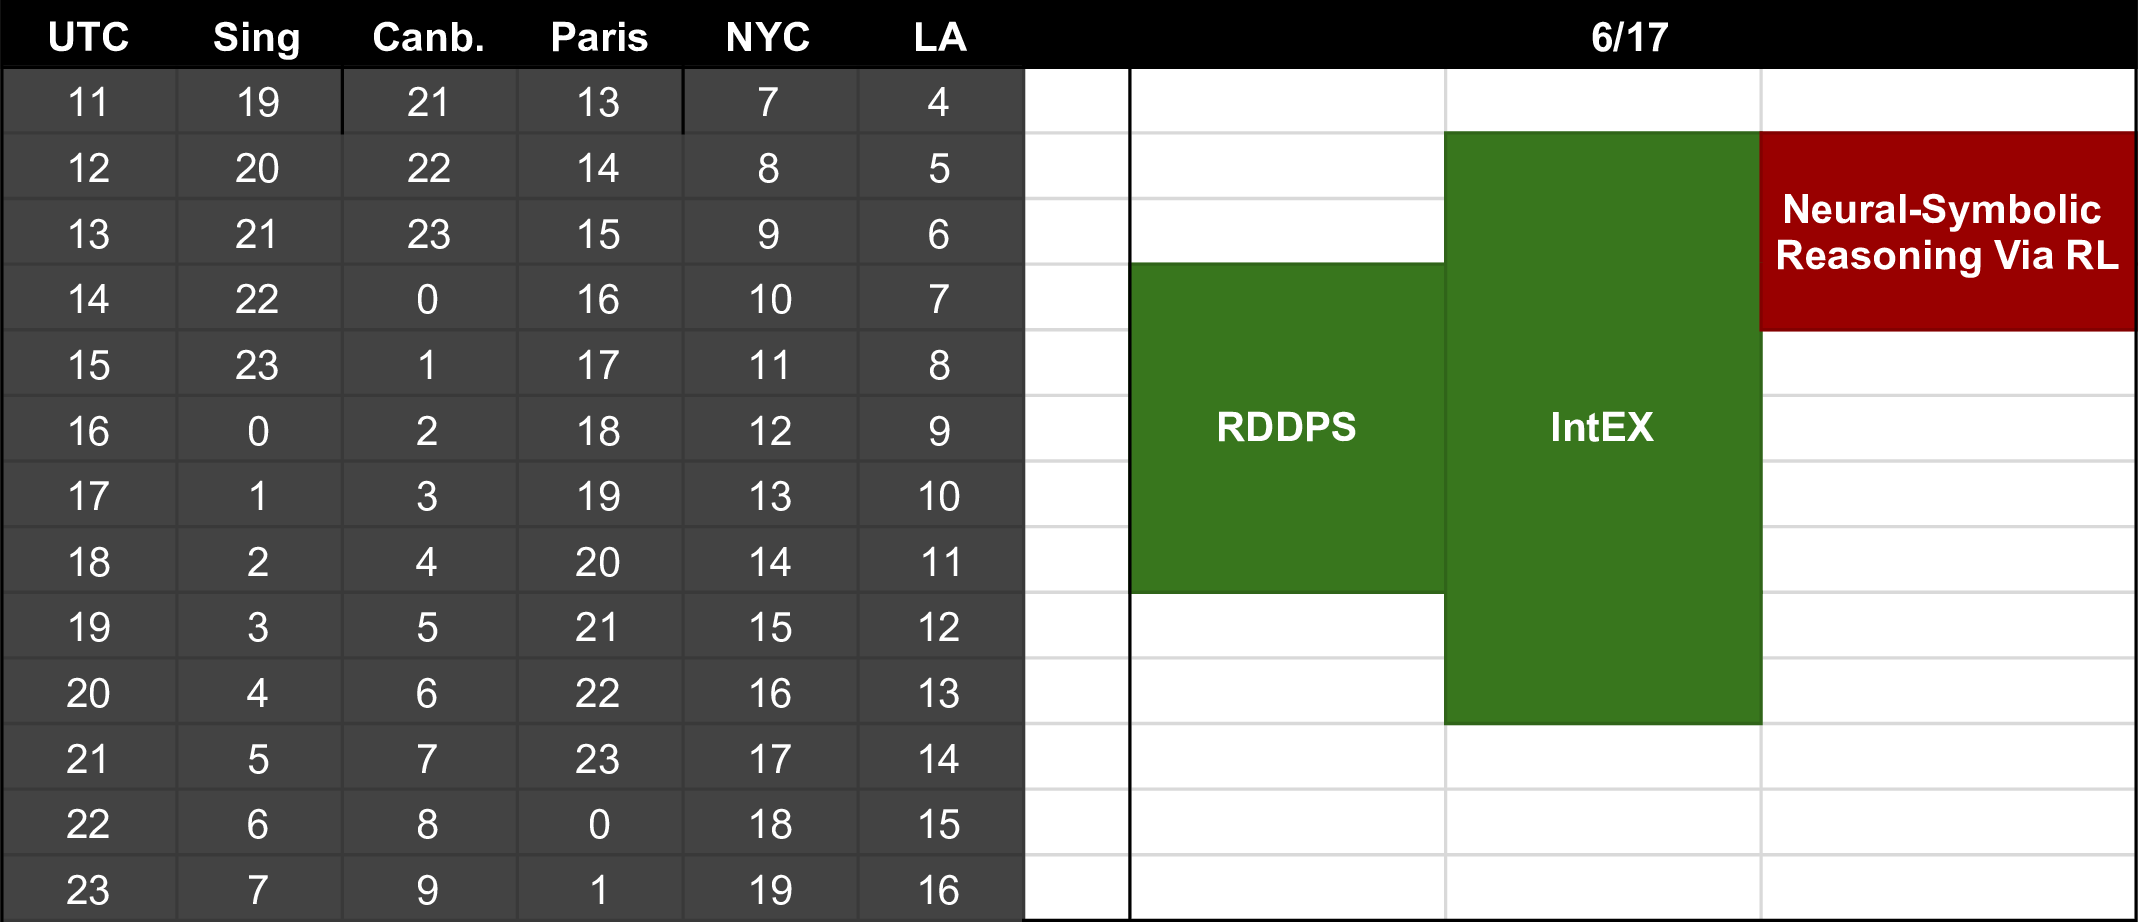
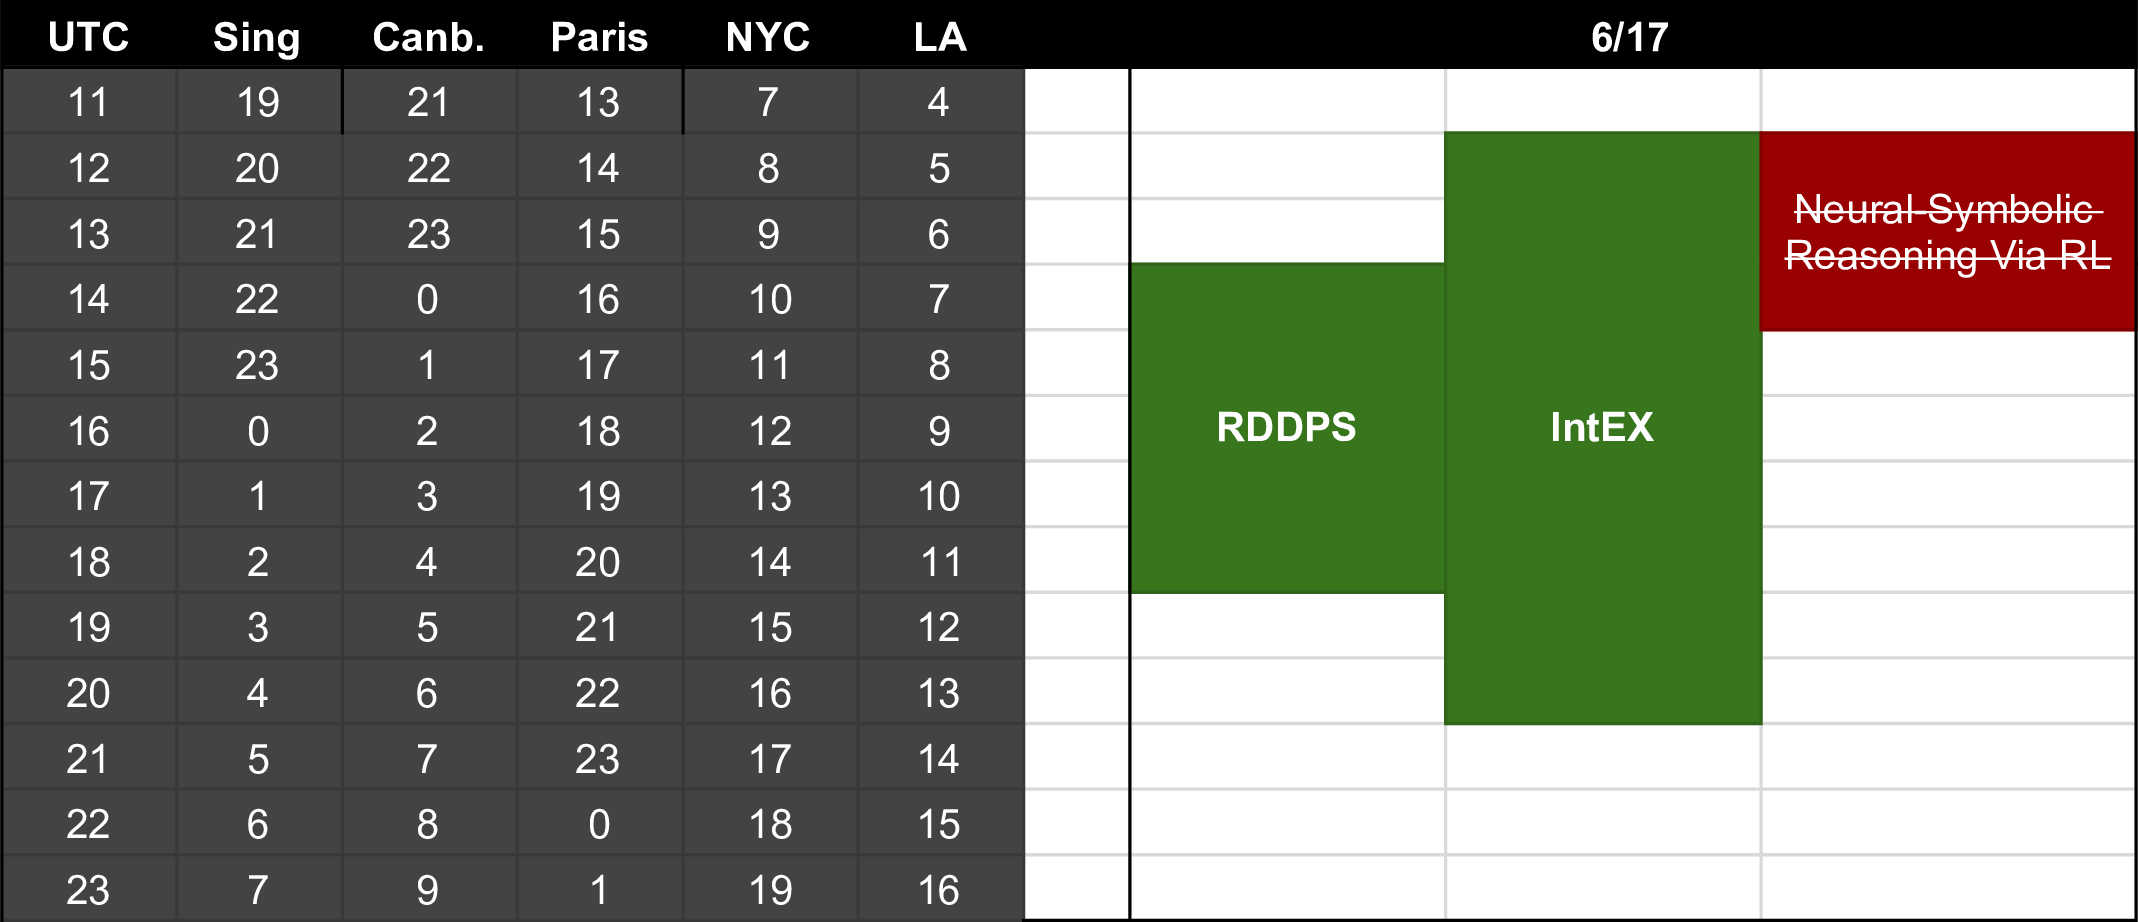
Final tutorial cancelled.

Changed region(s): [[0.8335, 0.2126, 0.9878, 0.3037]]

diff --git a/tutorials/tut3/index.html b/tutorials/tut3/index.html
@@ -19,6 +19,9 @@ layout: page
       <section>
         <header>
           <h1 class="top">Efficient Neural-Symbolic Reasoning Via Reinforcement Learning</h1>
+          <br />
+          <h1><span style="color:red">Cancelled:</span> Recording will be uploaded, but the live tutorial will not take place</h1>
+          <br />
           <h2>An ICAPS'22 Tutorial</h2>
           <h2>(half day)</h2>
           <p>June 17, 2022</p>
